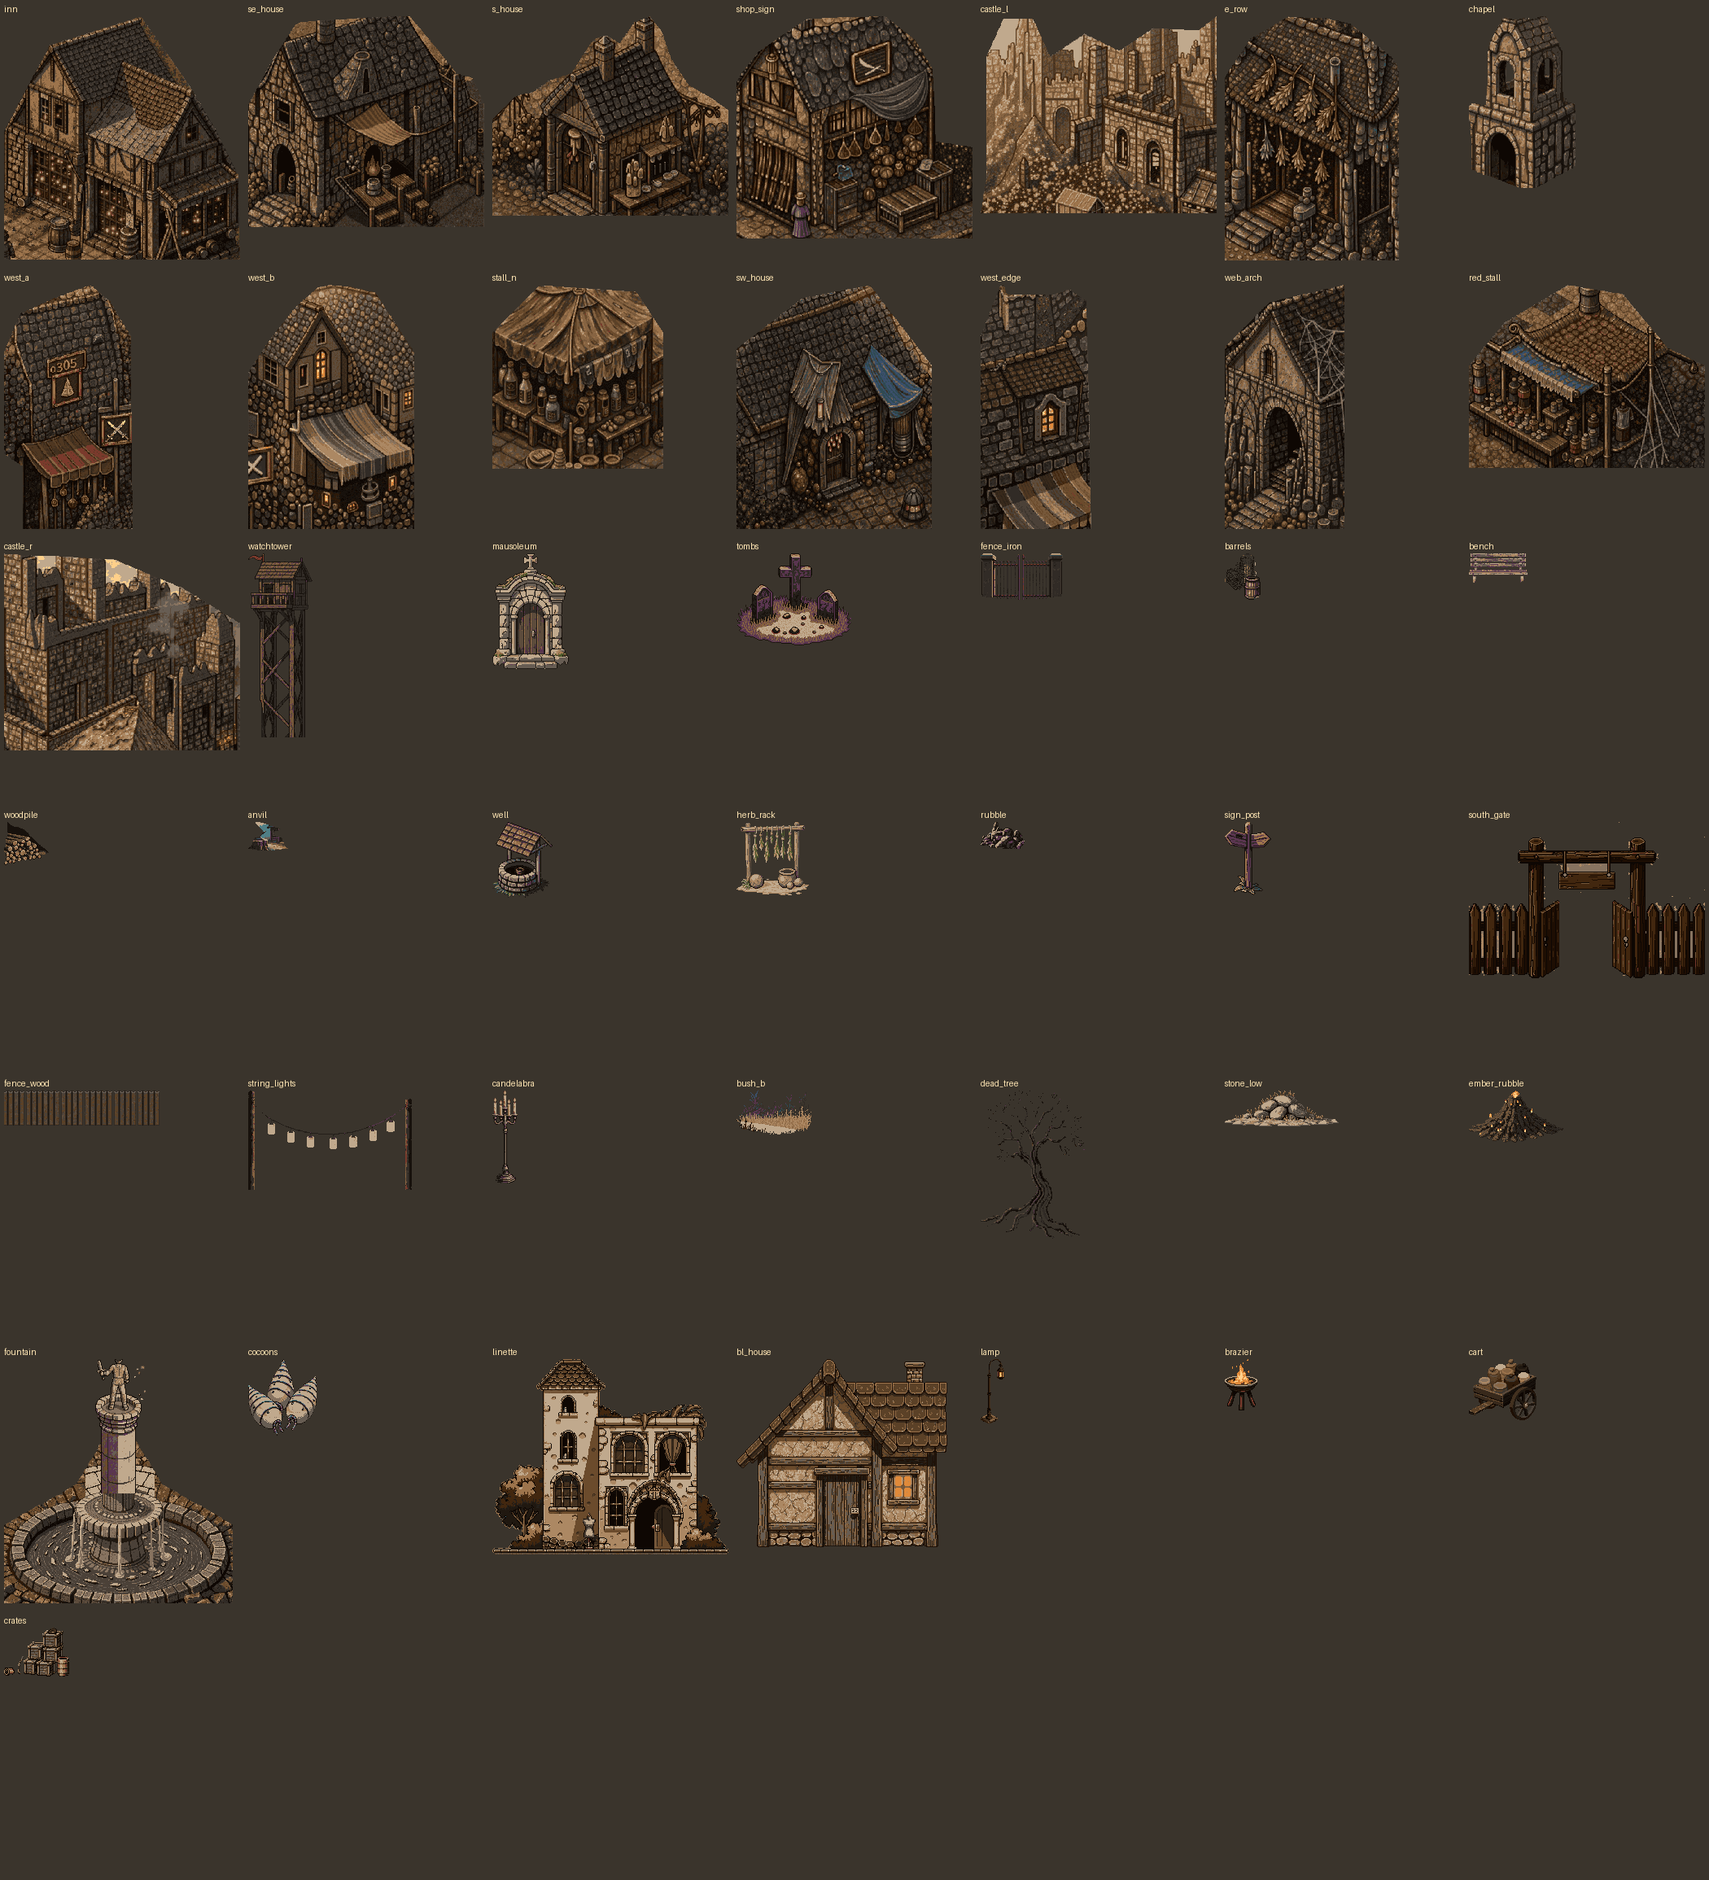
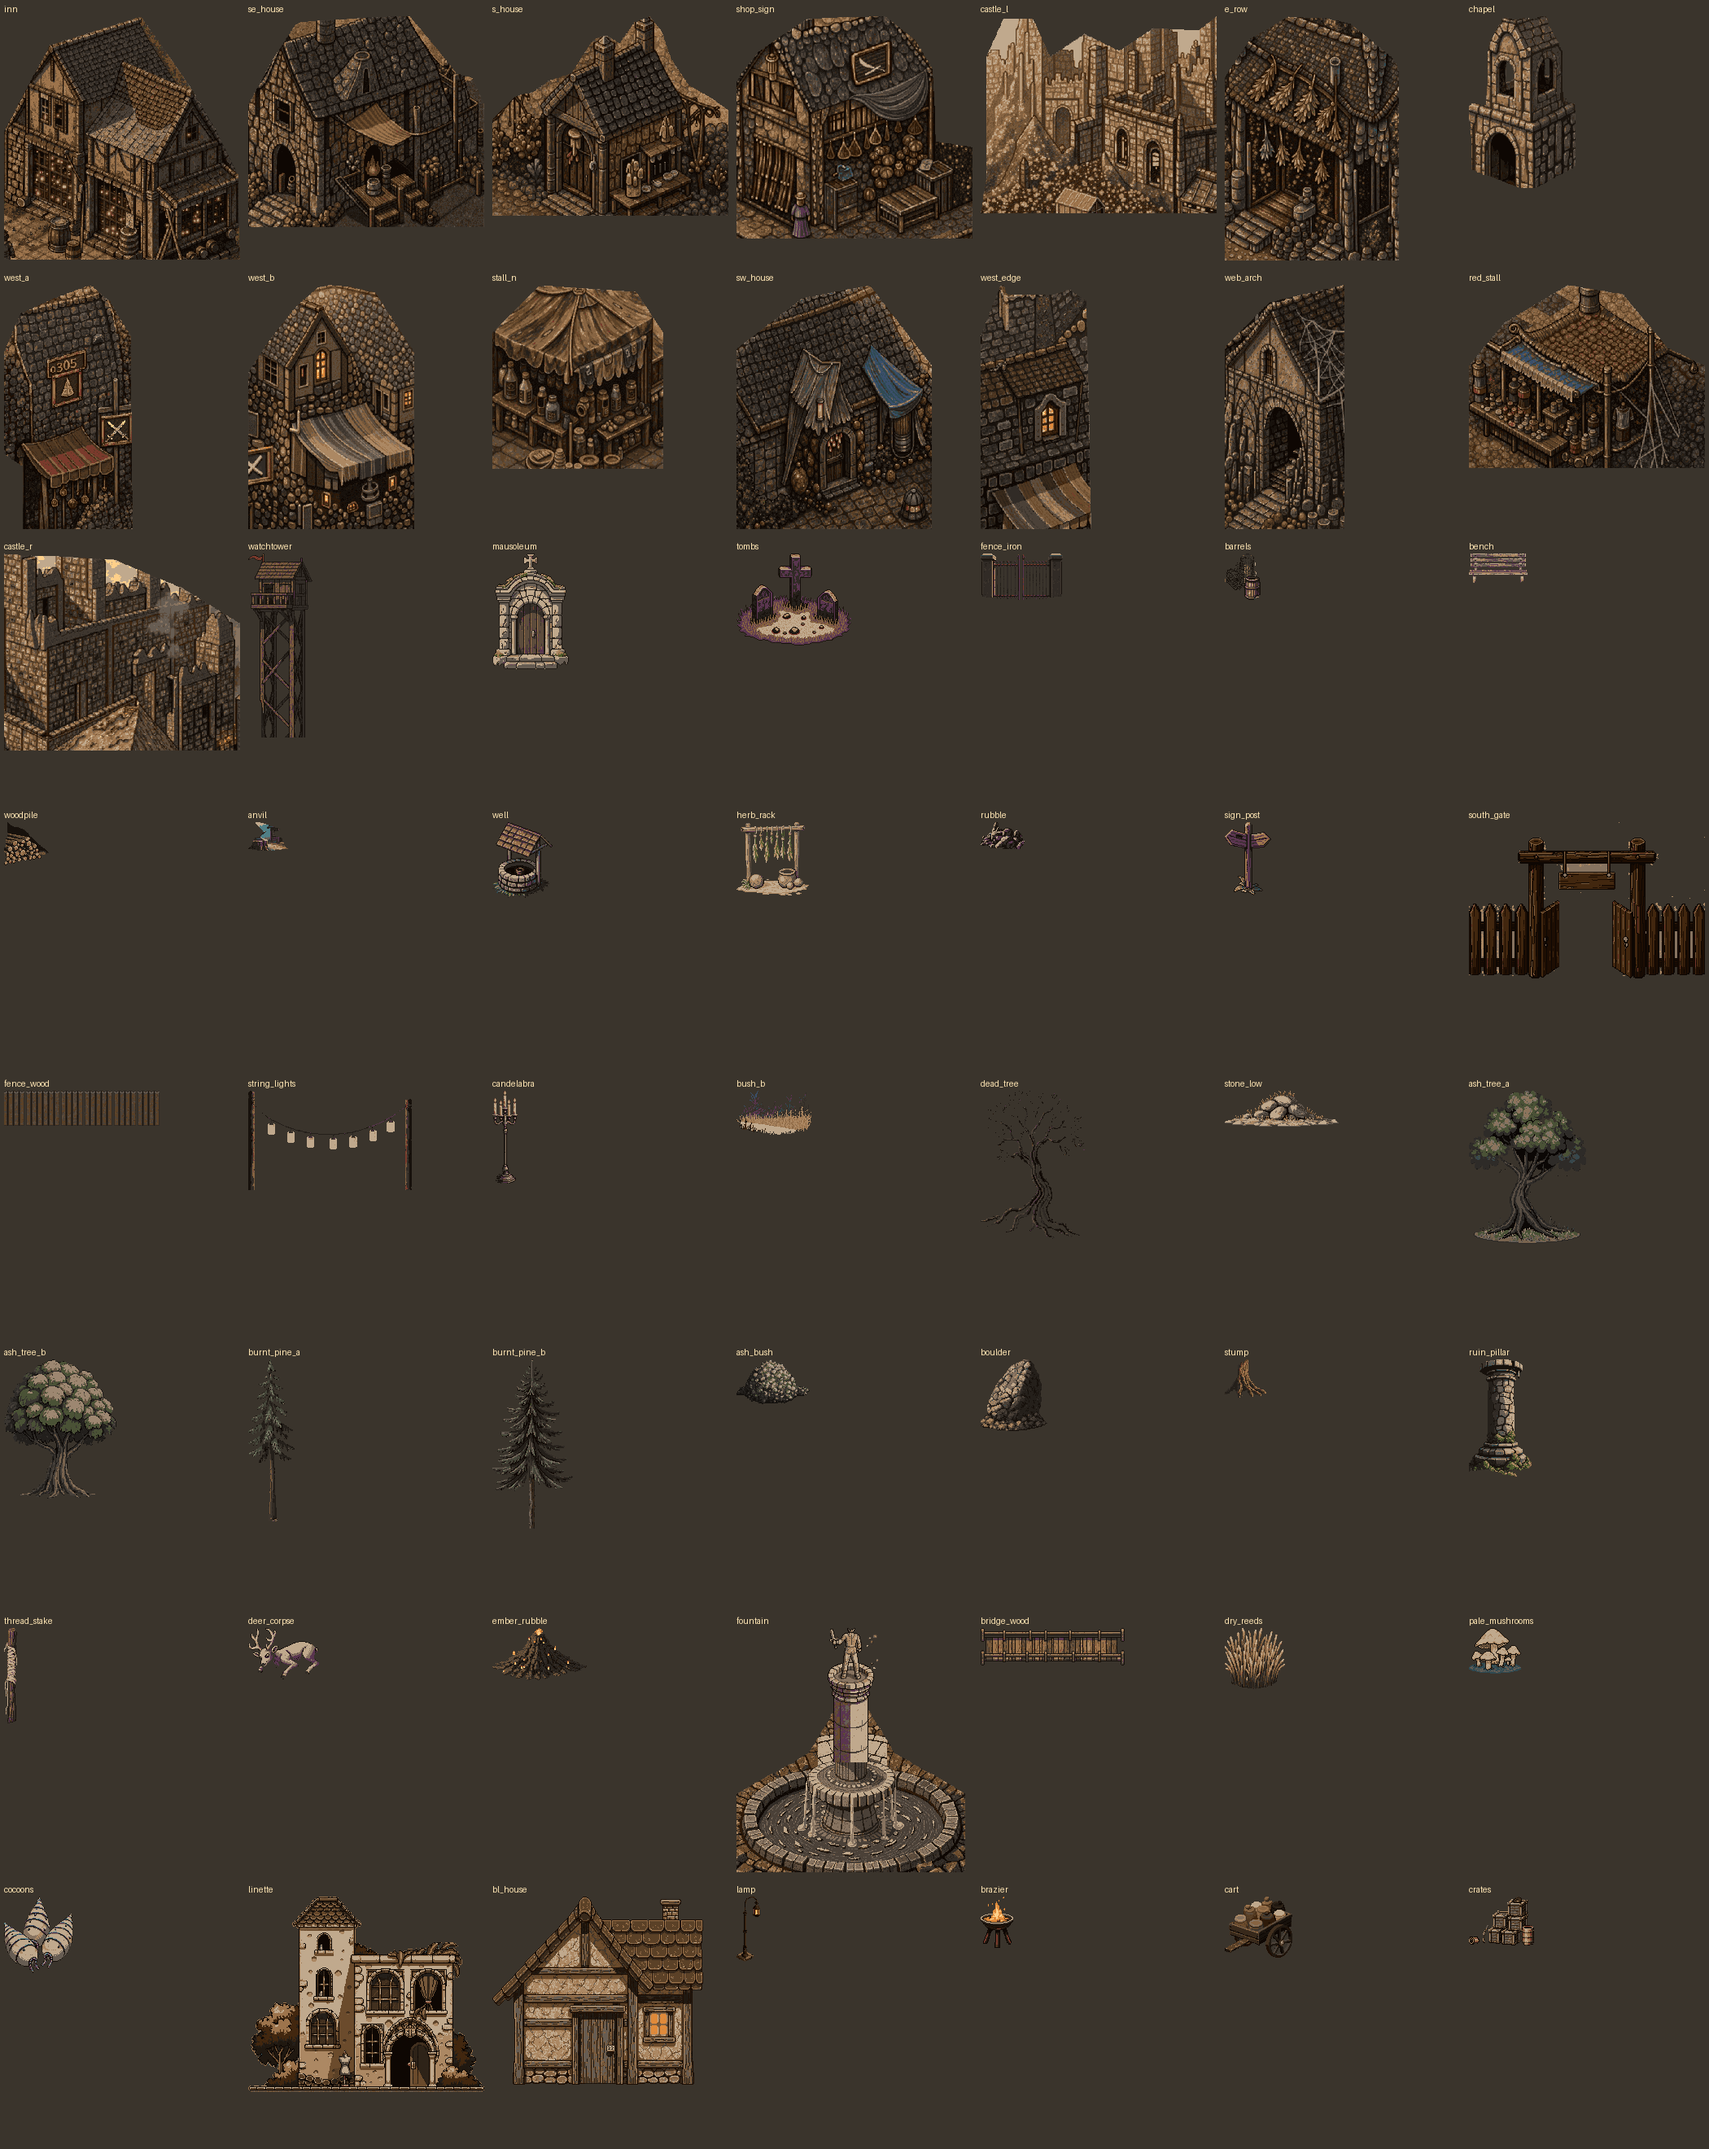
잿빛 들판 D=3 부품 16개 + 들판 장식 칸 대응표 + 미리보기
Claude-Session: https://claude.ai/code/session_01Ed92eTBNbhN1yf3zW3burX

diff --git a/handoff/claude/felt_grok_build/pack.py b/handoff/claude/felt_grok_build/pack.py
@@ -60,7 +60,7 @@ def key(a, thr=14):   # 테두리와 이어진 단색 바탕 지우기
     c = a[0, 0, :3].astype(int); flat = np.abs(a[:, :, :3].astype(int) - c).sum(2) < thr
     fl, _ = ndimage.label(flat); e = set(np.unique(np.concatenate([fl[0], fl[-1], fl[:, 0], fl[:, -1]]))) - {0}
     a[:, :, 3] = np.where(np.isin(fl, list(e)), 0, a[:, :, 3]); return a
-SKIP = {'fountain_king', 'fountain_king2', 'cocoons', 'bush_a'}   # 버린 판 (석상 분수는 아래 fountain 으로, 고치는 cocoons2)
+SKIP = {'fountain_king', 'fountain_king2', 'cocoons', 'bush_a', 'bridge_wood', 'dry_reeds', 'pale_mushrooms'}   # 버린 판 (석상 분수는 아래 fountain 으로, 고치는 cocoons2)
 for pid in gen.TEXT:
     if pid in SKIP: continue
     a = tight(key(np.array(Image.open(f'out/{pid}_t.png').convert('RGBA')))); Image.fromarray(a).save(f'final/{pid}.png')
@@ -69,6 +69,22 @@ for pid in gen.TEXT:
 a = tight(key(np.array(Image.open('out/fountain_king_i.png').convert('RGBA')))); Image.fromarray(a).save('final/fountain.png')
 parts['fountain'] = {'img': 'fountain.png', 'w': a.shape[1], 'h': a.shape[0], 'ax': a.shape[1] // 2, 'ay': a.shape[0] - 1,
                      'grok_foot': [692, 530], 'role': '[1] 금 간 분수 + 부서진 왕 석상 (광장 랜드마크)', 'kind': 'building'}
+for n in ('bridge_wood', 'dry_reeds', 'pale_mushrooms'):   # 2판으로 바꿔 이름 정리
+    parts[n] = parts.pop(n + '2'); parts[n]['img'] = n + '.png'; os.replace(f'final/{n}2.png', f'final/{n}.png')
+if 'pale_mushrooms2' in parts: parts['pale_mushrooms'] = parts.pop('pale_mushrooms2')
+for n in ('burnt_pine_a', 'burnt_pine_b'):   # 청록 잎 → 잿빛 올리브 (무료 색 바꾸기)
+    a = np.array(Image.open(f'final/{n}.png').convert('RGBA')).astype(int); r, g, b = a[..., 0], a[..., 1], a[..., 2]
+    teal = (b > r + 8) & (a[..., 3] > 0); L = (r + g + b) / 3
+    a[teal, 0] = (L[teal] * 1.02).astype(int); a[teal, 1] = (L[teal] * 1.06).astype(int); a[teal, 2] = (L[teal] * .86).astype(int)
+    Image.fromarray(a.clip(0, 255).astype(np.uint8)).save(f'final/{n}.png')
+for n in ('ash_tree_a', 'ash_tree_b', 'ash_bush'):   # 잿빛 들판: 잎 초록을 40% 빼기 (무료)
+    a = np.array(Image.open(f'final/{n}.png').convert('RGBA')).astype(float); L = a[..., :3].mean(2, keepdims=True)
+    a[..., :3] = a[..., :3] * .6 + L * .4; Image.fromarray(a.clip(0, 255).astype(np.uint8)).save(f'final/{n}.png')
+FIELD = {'T': ['ash_tree_a', 'ash_tree_b', 'dead_tree'], 'P': ['burnt_pine_a', 'burnt_pine_b'], 'Y': ['ash_tree_b'], 'u': ['bush_b', 'ash_bush'],
+         'R': ['boulder'], 'r': ['stone_low'], 's': ['stump'], 'm': ['pale_mushrooms'], 'f': ['fence_wood'], 'O': ['ruin_pillar'],
+         'c': ['thread_stake'], 'b': ['bridge_wood'], '"': ['dry_reeds'], 'clue:f00_clue_corpse': ['deer_corpse']}
+for ch, ids in FIELD.items():
+    for i in ids: parts[i].setdefault('field_legend', []).append(ch); parts[i]['zone'] = parts[i].get('zone') or 'field'
 parts['cocoons'] = parts.pop('cocoons2'); parts['cocoons']['img'] = 'cocoons.png'; os.replace('final/cocoons2.png', 'final/cocoons.png')
 ZONE = {'south_gate': '남 입구 문', 'fence_wood': '남 입구 나무 울타리', 'anvil': '남(대장간) 모루', 'woodpile': '남(대장간) 장작',
         'string_lights': '서 시장 줄등', 'candelabra': '북동 예배당 촛대', 'tombs': '북동 묘비', 'fence_iron': '북동 묘지 쇠울타리',
@@ -94,7 +110,7 @@ for pid, src, gf in [('bl_house', 'house_v2', [70, 860]),
 json.dump({'_doc': 'Felt (그록 대표 그림 배치) 부품. D=3 (월드 1px = 그림 3px), view low top-down, 빛 왼쪽 위, 마을 32색. '
                    '투명 PNG 크기 그대로 쓰기. ax/ay = 발밑 기준점. grok_foot × 0.8 = 3번방 구도 판 월드 px 자리. '
                    '건물은 그록 크기의 0.7배 이하로 그렸으니 충돌 칸(solid)은 그림 아래쪽 폭에 맞춰 다시 잡기.',
-           'D': 3, 'parts': parts}, open('final/parts.json', 'w'), ensure_ascii=False, indent=1)
+           'D': 3, 'field_legend': FIELD, 'parts': parts}, open('final/parts.json', 'w'), ensure_ascii=False, indent=1)
 # 확인 그림
 items = list(parts.items()); cols = 7; cw, ch = 300, 330
 o = Image.new('RGBA', (cols * cw, ((len(items) + cols - 1) // cols) * ch), (58, 52, 44, 255)); d = ImageDraw.Draw(o)

diff --git a/handoff/claude/felt_grok_build/gen.py b/handoff/claude/felt_grok_build/gen.py
@@ -94,6 +94,22 @@ TEXT = {  # id: (크기, 설명) — init 없이 글자+색만, 투명 배경
  'bush_b':         ((160, 112), "cluster of dry scrub bushes and tall dead grass, dusty brown and dark olive, seen from slightly above, 16-bit JRPG", 13),
  'dead_tree':      ((160, 224), "leafless dead tree with twisted dark branches and exposed roots, seen from slightly above, 16-bit JRPG"),
  'stone_low':      ((144, 80),  "low pile of mossy grey roadside stones with dry grass tufts, seen from slightly above, 16-bit JRPG"),
+ 'ash_tree_a': ((176, 224), "broad deciduous tree with sparse dusty grey-olive leaves dulled by ash, dark twisted trunk, seen from slightly above, 16-bit JRPG"),
+ 'ash_tree_b': ((160, 208), "round leafy tree with withered ash-grey and faded olive foliage, a few bare branches, seen from slightly above, 16-bit JRPG", 5),
+ 'burnt_pine_a': ((128, 240), "tall conifer pine tree partly burned, charred black lower trunk, sparse dark grey-green needles, seen from slightly above, 16-bit JRPG"),
+ 'burnt_pine_b': ((112, 224), "narrow dark pine tree with dull grey-green needles dusted with ash, seen from slightly above, 16-bit JRPG", 9),
+ 'ash_bush': ((112, 80), "round low bush with dusty grey-olive leaves, seen from slightly above, 16-bit JRPG"),
+ 'boulder': ((128, 112), "large weathered grey boulder with moss and cracks, seen from slightly above, 16-bit JRPG"),
+ 'stump': ((80, 64), "old cut tree stump with exposed roots, seen from slightly above, 16-bit JRPG"),
+ 'pale_mushrooms': ((64, 48), "small cluster of pale sickly white mushrooms, seen from slightly above, 16-bit JRPG"),
+ 'ruin_pillar': ((80, 160), "broken ruined stone pillar column with a cracked top, moss, seen from slightly above, 16-bit JRPG"),
+ 'thread_stake': ((64, 128), "wooden stake wrapped tightly in pale white threads and spider silk, strands trailing, seen from slightly above, 16-bit JRPG"),
+ 'bridge_wood': ((192, 112), "short rustic wooden plank footbridge with rope rails, seen from slightly above, 16-bit JRPG"),
+ 'dry_reeds': ((96, 80), "clump of tall dry dead reeds and grass, pale tan, seen from slightly above, 16-bit JRPG"),
+ 'deer_corpse': ((128, 80), "dead deer lying on its side in the grass, stiff and grey like stone, seen from slightly above, 16-bit JRPG"),
+ 'bridge_wood2': ((224, 128), "wide wooden plank bridge crossing a small stream, planks laid side by side with low log railings on both sides, top-down view slightly from above, 16-bit JRPG", 17),
+ 'dry_reeds2':   ((96, 96), "large clump of tall dry pale tan reeds and dead grass blades, dense, seen from slightly above, 16-bit JRPG", 17),
+ 'pale_mushrooms2': ((80, 64), "cluster of six pale sickly white toadstool mushrooms of different sizes on dark soil, seen from slightly above, 16-bit JRPG", 17),
  'ember_rubble':   ((160, 96),  "pile of charred burned stone rubble and black beams with a few glowing orange embers, thin smoke, seen from slightly above, 16-bit JRPG", None, 'palette_32.png'),
 }
 

diff --git a/handoff/claude/felt_grok_build/field_preview.py b/handoff/claude/felt_grok_build/field_preview.py
@@ -1,0 +1,26 @@
+"""잿빛 들판 D=3 미리보기 (바닥은 임시 단색+잡음, 3번방이 코드로 제대로). field_preview.png"""
+import json, sys, numpy as np
+from PIL import Image
+M = json.load(open(sys.argv[1])); P = json.load(open('final/parts.json')); L = P['field_legend']; P = P['parts']
+G = M['ground']; T = 48; x0, y0, cw, ch = 0, 0, 40, 23
+GC = {'.': (78, 74, 58), ',': (74, 70, 54), "'": (80, 74, 60), '=': (98, 80, 60), '~': (44, 58, 62), ':': (88, 84, 76), '#': (40, 34, 28), '"': (82, 76, 56), '_': (110, 96, 76), 'b': (44, 58, 62)}
+rng = np.random.default_rng(3)
+H, W = ch * T, cw * T
+g = np.zeros((H // 3, W // 3, 3))
+for y in range(ch):
+    for x in range(cw):
+        c = G[y0 + y][x0 + x]; g[y * 16:(y + 1) * 16, x * 16:(x + 1) * 16] = GC.get(c, GC['.'])
+g += rng.normal(0, 4, g.shape)
+bg = Image.fromarray(g.clip(0, 255).astype(np.uint8)).resize((W, H), Image.NEAREST).convert('RGBA')
+items = []
+for y in range(ch):
+    for x in range(cw):
+        c = G[y0 + y][x0 + x]
+        if c in L:
+            ids = L[c]; pid = ids[(x * 7 + y * 13) % len(ids)]
+            jx, jy = rng.integers(-10, 11), rng.integers(-6, 7)
+            items.append(((y + 1) * T + jy, (x + .5) * T + jx, pid))
+for fy, fx, pid in sorted(items):
+    p = P[pid]; im = Image.open('final/' + p['img']).convert('RGBA')
+    bg.alpha_composite(im, (int(fx - p['ax']), int(fy - p['ay'])))
+bg.crop((0, 0, 1920, 1080)).save('field_preview.png')

diff --git a/handoff/claude/felt_grok_build/README_ko.md b/handoff/claude/felt_grok_build/README_ko.md
@@ -1,6 +1,6 @@
 # 펠트 부품 (그록 대표 그림 배치용) — 2026-10-23
 
-사장님 크레딧 승인(약 80) 뒤 만든 것. 이번에 쓴 크레딧 **57** (126 → 183, `../felt_pixellab/usage.jsonl`).
+사장님 크레딧 승인(약 80) 뒤 만든 것. 이번에 쓴 크레딧 **73** (126 → 199, `../felt_pixellab/usage.jsonl`).
 
 ## 게임에 쓸 것 → `final/`
 - 34개 투명 PNG, **D=3** (월드 1px = 그림 3px, 주인공과 같은 점 크기), view low top-down, 마을 32색(`../felt_grok_layout/palette_32.png`)
@@ -36,3 +36,8 @@
 
 ## 3차 — 남문 바깥 이음매 소품 4크레딧
 `bush_b`(마른 덤불·풀), `dead_tree`, `stone_low`. bush_a 는 집 모양으로 나와 버림.
+
+## 4차 — 잿빛 들판(field_felt) D=3 부품 16크레딧 (13 + 다시 3)
+parts.json `field_legend`: 들판 지도 장식 칸 → 부품 (T 잿빛 나무 2+마른 나무 / P 불탄 소나무 2 / u 덤불 2 / R 바위 / r 돌무더기 / s 그루터기 / m 창백한 버섯 / f 나무 울타리 / O 무너진 기둥 / c 실 감긴 말뚝 / b 나무 다리 / " 마른 갈대 / 사슴 사체 단서).
+무료 손질: 소나무 청록 잎 → 잿빛 올리브, 잿빛 나무·덤불 초록 40% 빼기. 미리보기 `field_preview.png` (`python3 field_preview.py <field_felt.json>`, 바닥은 임시).
+버린 판: 다리·갈대·버섯 1차(너무 작거나 계단 모양).
